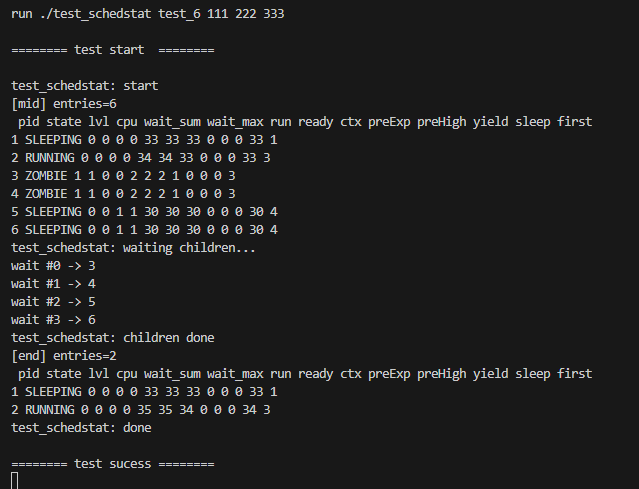
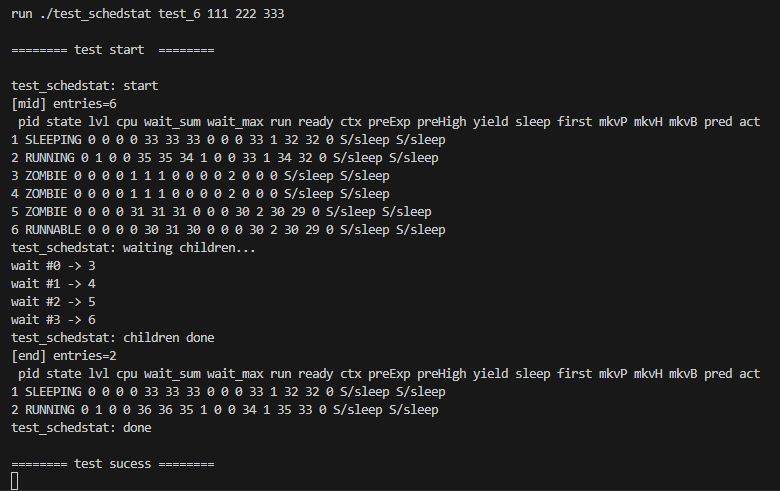
完成测试

diff --git a/src/user/initcode.c b/src/user/initcode.c
@@ -2,8 +2,8 @@
 
 int main()
 {
-	char path[] = "./test_workload_io";
-	char arg0[] = "test_io";
+	char path[] = "./test_mlfq_preempt";
+	char arg0[] = "test_8";
 	char arg1[] = "111";
 	char arg2[] = "222";
 	char arg3[] = "333";

diff --git a/compare.md b/compare.md
@@ -77,56 +77,77 @@ test_workload_io: done
 
 run ./test_workload_mix test_mix 111 222 333
 
-======== test start ========
+======== test start  ========
 
 test_workload_mix: start (cpu=6 io=6 burst=1)
 [mid1] entries=15
  pid state lvl cpu wait_sum wait_max run ready ctx preExp preHigh yield sleep first
- 1 SLEEPING 0 0 0 0 33 33 33 0 0 0 33 1
- 2 RUNNING 0 0 0 0 34 34 33 0 0 0 33 1
- 3 ZOMBIE 0 0 0 0 1 1 1 0 0 0 0 2
- 4 ZOMBIE 0 0 0 0 1 1 1 0 0 0 0 2
- 5 ZOMBIE 1 2 0 0 3 3 3 1 1 0 0 2
- 6 ZOMBIE 1 2 0 0 3 3 3 1 1 0 0 2
- 7 ZOMBIE 0 0 1 1 1 1 1 0 0 0 0 3
- 8 ZOMBIE 0 0 1 1 1 1 1 0 0 0 0 3
- 9 SLEEPING 0 0 1 1 30 30 30 0 0 0 30 3
-10 SLEEPING 0 0 1 1 30 30 30 0 0 0 30 3
-
+1 SLEEPING 0 0 0 0 33 33 33 0 0 0 33 1
+2 RUNNING 0 0 1 1 33 33 32 0 0 0 32 1
+3 ZOMBIE 1 1 1 1 2 2 2 1 0 0 0 1
+4 ZOMBIE 1 1 1 1 2 2 2 1 0 0 0 1
+5 ZOMBIE 0 0 1 1 1 1 1 0 0 0 0 2
+6 ZOMBIE 0 0 1 1 1 1 1 0 0 0 0 2
+7 ZOMBIE 1 1 1 1 2 2 2 1 0 0 0 2
+8 ZOMBIE 1 1 1 1 2 2 2 1 0 0 0 2
+9 SLEEPING 0 0 2 2 29 29 29 0 0 0 29 3
+10 SLEEPING 0 0 2 2 29 29 29 0 0 0 29 3
+11 SLEEPING 0 0 2 2 29 29 29 0 0 0 29 3
+12 SLEEPING 0 0 2 2 29 29 29 0 0 0 29 3
+13 SLEEPING 0 0 2 2 29 29 29 0 0 0 29 3
+14 SLEEPING 0 0 2 2 29 29 29 0 0 0 29 3
+15 ZOMBIE 0 0 2 2 25 25 25 0 0 0 24 3
+[mid2] entries=15
+ pid state lvl cpu wait_sum wait_max run ready ctx preExp preHigh yield sleep first
+1 SLEEPING 0 0 0 0 33 33 33 0 0 0 33 1
+2 RUNNING 0 0 1 1 63 63 62 0 0 0 62 1
+3 ZOMBIE 1 1 1 1 2 2 2 1 0 0 0 1
+4 ZOMBIE 1 1 1 1 2 2 2 1 0 0 0 1
+5 ZOMBIE 0 0 1 1 1 1 1 0 0 0 0 2
+6 ZOMBIE 0 0 1 1 1 1 1 0 0 0 0 2
+7 ZOMBIE 1 1 1 1 2 2 2 1 0 0 0 2
+8 ZOMBIE 1 1 1 1 2 2 2 1 0 0 0 2
+9 SLEEPING 0 0 2 2 59 59 59 0 0 0 59 3
+10 RUNNING 0 0 2 2 59 59 58 0 0 0 58 3
+11 RUNNABLE 0 0 2 2 58 59 58 0 0 0 58 3
+12 RUNNABLE 0 0 2 2 58 59 58 0 0 0 58 3
+13 RUNNABLE 0 0 2 2 58 59 58 0 0 0 58 3
+14 RUNNABLE 0 0 2 2 58 59 58 0 0 0 58 3
+15 ZOMBIE 0 0 2 2 25 25 25 0 0 0 24 3
 [mid3] entries=15
  pid state lvl cpu wait_sum wait_max run ready ctx preExp preHigh yield sleep first
- 1 SLEEPING 0 0 0 0 33 33 33 0 0 0 33 1
- 2 RUNNING 0 0 1 1 64 64 63 0 0 0 63 2
- 3 ZOMBIE 1 1 1 1 2 2 2 1 0 0 0 2
- 4 ZOMBIE 1 1 1 1 2 2 2 1 0 0 0 2
- 5 ZOMBIE 0 0 1 1 1 1 1 0 0 0 0 3
- 6 ZOMBIE 0 0 1 1 1 1 1 0 0 0 0 3
- 7 ZOMBIE 1 1 1 1 2 2 2 1 0 0 0 3
- 8 ZOMBIE 1 1 1 1 2 2 2 1 0 0 0 3
- 9 RUNNING 0 0 2 2 60 60 59 0 0 0 59 4
-10 RUNNABLE 0 0 2 2 59 60 59 0 0 0 59 4
-11 RUNNABLE 0 0 2 2 59 60 59 0 0 0 59 4
-12 RUNNABLE 0 0 2 2 59 60 59 0 0 0 59 4
-13 RUNNABLE 0 0 2 2 59 60 59 0 0 0 59 4
-14 RUNNABLE 0 0 2 2 59 60 59 0 0 0 59 4
-15 ZOMBIE 0 0 2 2 25 25 25 0 0 0 24 4
+1 SLEEPING 0 0 0 0 33 33 33 0 0 0 33 1
+2 RUNNING 0 0 1 1 64 64 63 0 0 0 63 1
+3 ZOMBIE 1 1 1 1 2 2 2 1 0 0 0 1
+4 ZOMBIE 1 1 1 1 2 2 2 1 0 0 0 1
+5 ZOMBIE 0 0 1 1 1 1 1 0 0 0 0 2
+6 ZOMBIE 0 0 1 1 1 1 1 0 0 0 0 2
+7 ZOMBIE 1 1 1 1 2 2 2 1 0 0 0 2
+8 ZOMBIE 1 1 1 1 2 2 2 1 0 0 0 2
+9 RUNNING 0 0 2 2 60 60 59 0 0 0 59 3
+10 RUNNABLE 0 0 2 2 59 60 59 0 0 0 59 3
+11 RUNNABLE 0 0 2 2 59 60 59 0 0 0 59 3
+12 RUNNABLE 0 0 2 2 59 60 59 0 0 0 59 3
+13 RUNNABLE 0 0 2 2 59 60 59 0 0 0 59 3
+14 RUNNABLE 0 0 2 2 59 60 59 0 0 0 59 3
+15 ZOMBIE 0 0 2 2 25 25 25 0 0 0 24 3
 [mid4] entries=15
  pid state lvl cpu wait_sum wait_max run ready ctx preExp preHigh yield sleep first
- 1 SLEEPING 0 0 0 0 33 33 33 0 0 0 33 1
- 2 RUNNING 0 0 1 1 65 65 64 0 0 0 64 2
- 3 ZOMBIE 1 1 1 1 2 2 2 1 0 0 0 2
- 4 ZOMBIE 1 1 1 1 2 2 2 1 0 0 0 2
- 5 ZOMBIE 0 0 1 1 1 1 1 0 0 0 0 3
- 6 ZOMBIE 0 0 1 1 1 1 1 0 0 0 0 3
- 7 ZOMBIE 1 1 1 1 2 2 2 1 0 0 0 3
- 8 ZOMBIE 1 1 1 1 2 2 2 1 0 0 0 3
- 9 ZOMBIE 0 0 2 2 61 61 61 0 0 0 60 4
-10 RUNNABLE 0 0 2 2 60 61 60 0 0 0 60 4
-11 RUNNABLE 0 0 2 2 60 61 60 0 0 0 60 4
-12 RUNNABLE 0 0 2 2 60 61 60 0 0 0 60 4
-13 RUNNABLE 0 0 2 2 60 61 60 0 0 0 60 4
-14 RUNNABLE 0 0 2 2 60 61 60 0 0 0 60 4
-15 ZOMBIE 0 0 2 2 25 25 25 0 0 0 24 4
+1 SLEEPING 0 0 0 0 33 33 33 0 0 0 33 1
+2 RUNNING 0 1 1 1 66 66 65 1 0 0 64 1
+3 ZOMBIE 1 1 1 1 2 2 2 1 0 0 0 1
+4 ZOMBIE 1 1 1 1 2 2 2 1 0 0 0 1
+5 ZOMBIE 0 0 1 1 1 1 1 0 0 0 0 2
+6 ZOMBIE 0 0 1 1 1 1 1 0 0 0 0 2
+7 ZOMBIE 1 1 1 1 2 2 2 1 0 0 0 2
+8 ZOMBIE 1 1 1 1 2 2 2 1 0 0 0 2
+9 ZOMBIE 0 0 2 2 61 61 61 0 0 0 60 3
+10 ZOMBIE 0 0 2 2 61 61 61 0 0 0 60 3
+11 ZOMBIE 0 0 2 2 61 61 61 0 0 0 60 3
+12 ZOMBIE 0 0 2 2 61 61 61 0 0 0 60 3
+13 ZOMBIE 0 0 2 2 61 61 61 0 0 0 60 3
+14 ZOMBIE 0 0 2 2 61 61 61 0 0 0 60 3
+15 ZOMBIE 0 0 2 2 25 25 25 0 0 0 24 3
 test_workload_mix: waiting children... started=13
 wait #0 -> 3
 wait #1 -> 4
@@ -143,11 +164,12 @@ wait #11 -> 14
 wait #12 -> 15
 [end] entries=2
  pid state lvl cpu wait_sum wait_max run ready ctx preExp preHigh yield sleep first
- 1 SLEEPING 0 0 0 0 33 33 33 0 0 0 33 1
- 2 RUNNING 1 1 1 1 66 66 65 1 0 0 64 2
+1 SLEEPING 0 0 0 0 33 33 33 0 0 0 33 1
+2 RUNNING 0 1 1 1 66 66 65 1 0 0 64 1
 test_workload_mix: done
 
 ======== test sucess ========
+
 
 
 lab-11:
